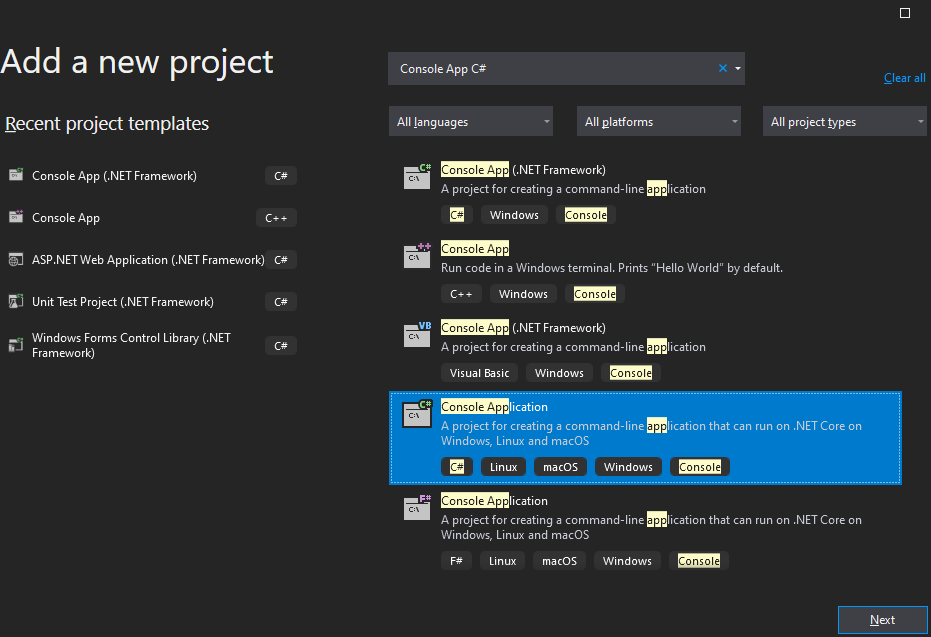
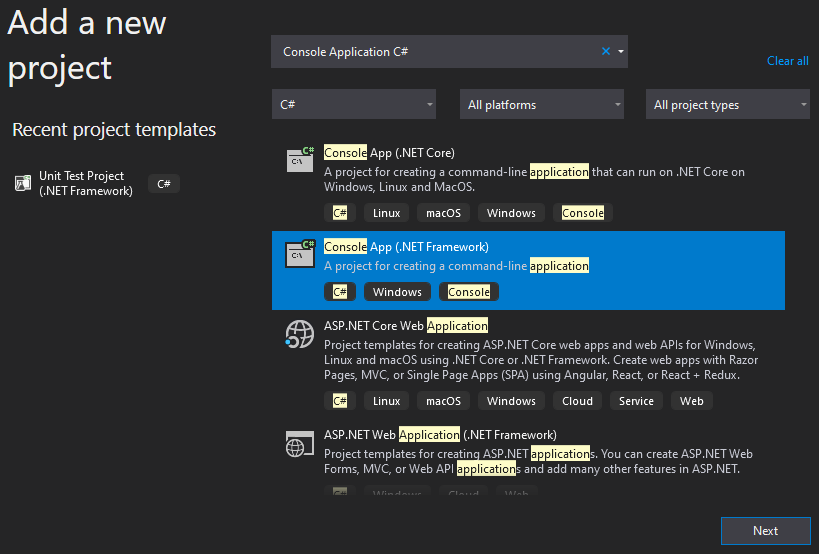
Creating SportsStore.Domain project

diff --git a/CHAPTER 7 - SPORTSSTORE A REAL APPLICATION/BB - IMPLEMENTATION/SportsStore/SportsStore.Domain/Properties/AssemblyInfo.cs b/CHAPTER 7 - SPORTSSTORE A REAL APPLICATION/BB - IMPLEMENTATION/SportsStore/SportsStore.Domain/Properties/AssemblyInfo.cs
@@ -1,0 +1,36 @@
+using System.Reflection;
+using System.Runtime.CompilerServices;
+using System.Runtime.InteropServices;
+
+// General Information about an assembly is controlled through the following
+// set of attributes. Change these attribute values to modify the information
+// associated with an assembly.
+[assembly: AssemblyTitle("SportsStore.Domain")]
+[assembly: AssemblyDescription("")]
+[assembly: AssemblyConfiguration("")]
+[assembly: AssemblyCompany("")]
+[assembly: AssemblyProduct("SportsStore.Domain")]
+[assembly: AssemblyCopyright("Copyright ©  2021")]
+[assembly: AssemblyTrademark("")]
+[assembly: AssemblyCulture("")]
+
+// Setting ComVisible to false makes the types in this assembly not visible
+// to COM components.  If you need to access a type in this assembly from
+// COM, set the ComVisible attribute to true on that type.
+[assembly: ComVisible(false)]
+
+// The following GUID is for the ID of the typelib if this project is exposed to COM
+[assembly: Guid("598c903f-160c-4c07-89df-6846afe1b730")]
+
+// Version information for an assembly consists of the following four values:
+//
+//      Major Version
+//      Minor Version
+//      Build Number
+//      Revision
+//
+// You can specify all the values or you can default the Build and Revision Numbers
+// by using the '*' as shown below:
+// [assembly: AssemblyVersion("1.0.*")]
+[assembly: AssemblyVersion("1.0.0.0")]
+[assembly: AssemblyFileVersion("1.0.0.0")]

diff --git a/CHAPTER 7 - SPORTSSTORE A REAL APPLICATION/BB - IMPLEMENTATION/SportsStore/SportsStore.Domain/obj/Debug/.NETFramework,Version=v4.7.2.AssemblyAttributes.cs b/CHAPTER 7 - SPORTSSTORE A REAL APPLICATION/BB - IMPLEMENTATION/SportsStore/SportsStore.Domain/obj/Debug/.NETFramework,Version=v4.7.2.AssemblyAttributes.cs
@@ -1,0 +1,4 @@
+// <autogenerated />
+using System;
+using System.Reflection;
+[assembly: global::System.Runtime.Versioning.TargetFrameworkAttribute(".NETFramework,Version=v4.7.2", FrameworkDisplayName = ".NET Framework 4.7.2")]

diff --git a/CHAPTER 7 - SPORTSSTORE A REAL APPLICATION/AA - CODE TRANSCRIPTION/AA GETTING STARTED.md b/CHAPTER 7 - SPORTSSTORE A REAL APPLICATION/AA - CODE TRANSCRIPTION/AA GETTING STARTED.md
@@ -74,14 +74,14 @@
       <li>Right-click on the <b>SportsStore</b> in <b>Solution Explorer</b></li>
       <li>Choose -> <b>Add</b> and <b>New Project</b></li>
       <li>
-        On screen <b>Add a new project</b>  type <b>Console App C#</b>, choose <b>Console Application C#</b> and click <b>Next</b>, as shown in the picture below:<br />
+        On screen <b>Add a new project</b>  type <b>Console Application C#</b>, choose <b>Console App (.NET Framework)</b> and click <b>Next</b>, as shown in the picture below:<br />
         <img src="Figure 7_1C.png" /><br />
-        <i><strong>Figure 7-1C</strong></i>. Creating SportsStore.Domain project<br />
+        <i><strong>Figure 7-1C</strong></i>. Creating SportsStore.Domain project<br /><br />
       </li>
       <li>
-        Now choose <b>.NET 5.0 (Current)</b> and click <b>Create</b>, as shown in the picture below:<br />
+        On screen <b>Configure your new project</b> and in the <b>Project name</b> field type <b>SportsStore.Domain</b> and click <b>Create</b>, as shown in the picture below:<br />
         <img src="Figure 7_1D.png" /><br />
-        <i><strong>Figure 7-1D</strong></i>. Ending the process<br />
+        <i><strong>Figure 7-1D</strong></i>. Creating SportsStore.Domain project - Ending the process<br />
       </li>
     </ol>
   </li>
